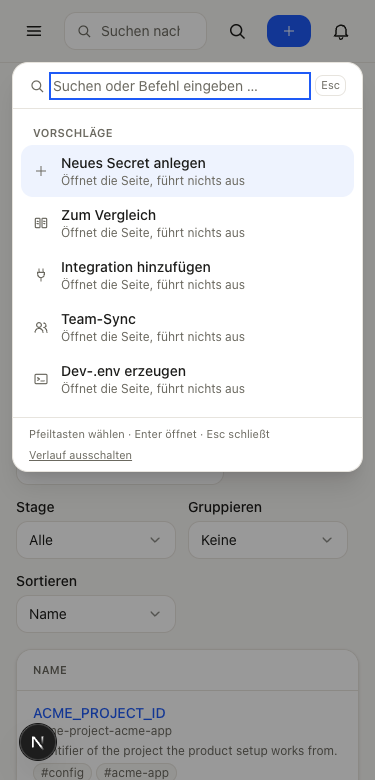
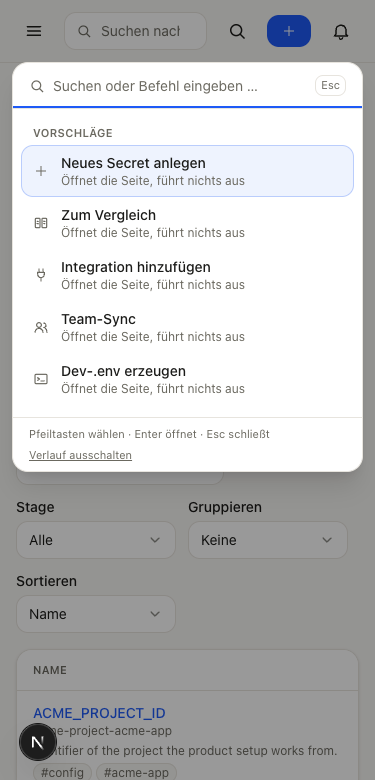
style: softer focus ring for inputs and the active palette entry

Changed region(s): [[0.1173, 0.0923, 0.8507, 0.1538]]

diff --git a/apps/desk/src/components/CommandPalette.tsx b/apps/desk/src/components/CommandPalette.tsx
@@ -153,7 +153,7 @@ export function CommandPalette({ onClose, shortcut }: { onClose: () => void; sho
   return (
     <div className="sd-fade fixed inset-0 z-[60] flex items-start justify-center bg-black/40 p-3 pt-[8vh] sm:p-6 sm:pt-[12vh]" onMouseDown={(e) => e.target === e.currentTarget && onClose()}>
       <div ref={rootRef} role="dialog" aria-modal="true" aria-label={t("palette.title")} className="sd-slide flex max-h-[min(34rem,calc(100dvh-4rem))] w-full max-w-xl flex-col overflow-hidden rounded-2xl border border-line bg-card shadow-xl">
-        <div className="flex items-center gap-2 border-b border-line px-4 py-3">
+        <div className="sd-palette-bar flex items-center gap-2 border-b border-line px-4 py-3 transition-shadow">
           <Icon name="search" className="h-4 w-4 shrink-0 text-muted" />
           <input
             ref={inputRef}
@@ -169,7 +169,7 @@ export function CommandPalette({ onClose, shortcut }: { onClose: () => void; sho
             placeholder={t("palette.placeholder")}
             autoComplete="off"
             spellCheck={false}
-            className="min-w-0 flex-1 bg-transparent text-sm outline-none placeholder:text-muted"
+            className="sd-bare-input min-w-0 flex-1 bg-transparent text-sm outline-none placeholder:text-muted"
           />
           <button type="button" onClick={onClose} className="rounded-lg px-1.5 py-0.5 text-[11px] text-muted ring-1 ring-inset ring-line hover:bg-page" aria-label={t("palette.close")}>Esc</button>
         </div>
@@ -190,7 +190,7 @@ export function CommandPalette({ onClose, shortcut }: { onClose: () => void; sho
                 counter += 1;
                 const i = counter;
                 const selected = i === active;
-                const base = `flex w-full items-center gap-3 rounded-xl px-3 py-2 text-left text-sm ${selected ? "bg-primary-light text-ink" : "hover:bg-page"}`;
+                const base = `flex w-full items-center gap-3 rounded-xl px-3 py-2 text-left text-sm ${selected ? "bg-primary-light text-ink ring-1 ring-inset ring-primary/25" : "hover:bg-page"}`;
                 if (row.type === "suggestion" || row.type === "recent-query") {
                   const label = row.type === "suggestion" ? row.s.label : row.q;
                   return (

diff --git a/apps/desk/src/app/globals.css b/apps/desk/src/app/globals.css
@@ -75,12 +75,32 @@ body {
   outline: 2px solid var(--sd-primary);
   outline-offset: 2px;
 }
-input:focus-visible,
-button:focus-visible,
-select:focus-visible,
-textarea:focus-visible {
+button:focus-visible {
   outline: 2px solid var(--sd-primary) !important;
   outline-offset: 2px !important;
+}
+/* Eingabefelder: weicher Fokusring statt hartem Rahmen (bleibt gut sichtbar, folgt den runden Ecken). */
+input:focus-visible,
+select:focus-visible,
+textarea:focus-visible {
+  outline: none !important;
+  border-color: var(--sd-primary);
+  box-shadow: 0 0 0 3px rgb(30 90 246 / 0.22);
+}
+/* Feld in einer Leiste, die selbst den Fokus zeigt (Befehlspalette). */
+.sd-bare-input:focus-visible {
+  box-shadow: none;
+  border-color: transparent;
+}
+.sd-palette-bar:focus-within {
+  box-shadow: inset 0 -2px 0 0 var(--sd-primary);
+}
+@media (forced-colors: active) {
+  input:focus-visible,
+  select:focus-visible,
+  textarea:focus-visible {
+    outline: 2px solid Highlight !important;
+  }
 }
 
 @keyframes sd-fade {

diff --git a/CHANGELOG.md b/CHANGELOG.md
@@ -22,6 +22,7 @@ The format is based on [Keep a Changelog](https://keepachangelog.com/en/1.1.0/),
 ### Added
 
 - **Command palette:** ⌘K (macOS) or Ctrl K (Windows, Linux) opens a search over secrets, variables, repositories, stages, integrations, providers, pages and actions (metadata only, never values), with typo-tolerant matching, initials, filter syntax (`stage:`, `repo:`, `tag:`, `art:`, `besitzer:`, `status:`), suggestions, "did you mean", recent items and searches (local, can be turned off), keyboard control, focus trap and screen-reader announcements. Touch devices get a search button. The lists of Secrets, Variables and Compare use the same search and highlight matches. See docs/SEARCH.md.
+- Focus styling: text fields get a soft focus ring instead of a hard outline; the selected palette entry has a subtle ring; forced-colors mode keeps a system outline.
 
 - **Mapping repositories to resources:** an explicit, human-maintained `resourceMap` in the inventory (`kind`, `repo`, optional `stage`, `value`, optional `label`) takes precedence over the name rules of the resource suggestions (reason *Mapping*), so Resend domains and similarly named Supabase projects can be suggested unambiguously. A mapped value the provider no longer lists gives no suggestion and a `mapMismatch` hint. Portal routes `GET`/`PUT`/`DELETE /api/ui/resource-map` (humans only), a mapping section in **Resources and defaults**, and *Remember for <repo>* after choosing a resource. Part of the team file. See [docs/RESOURCES.md](docs/RESOURCES.md).
 - **Provider parameters:** every provider declares its parameters (`Provider.params`); entries are validated before any provider call (`400` / `params_invalid` with the missing keys instead of a misleading provider error), also when creating a secret. Read-only discovery of accounts, projects, zones and domains from the connected integration, at most one never-applied suggestion by repository and stage, a read-only preflight that names the chosen resource (`409` / `preflight_failed` on a sure mismatch), non-secret integration defaults, zone-bound Cloudflare permissions with presets, and `domainId` required for Resend `sending_access`. New portal routes are listed in `apps/desk/API.md`; agents only see `params: { status, missing }` per secret.
